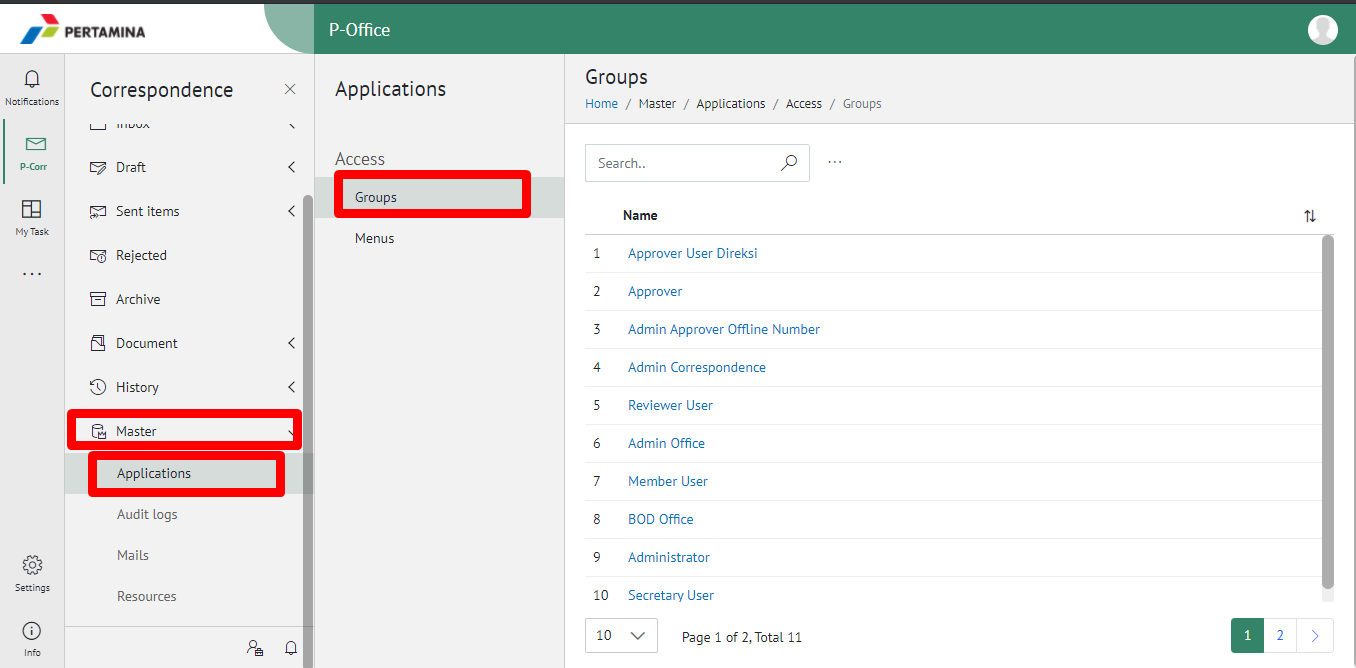
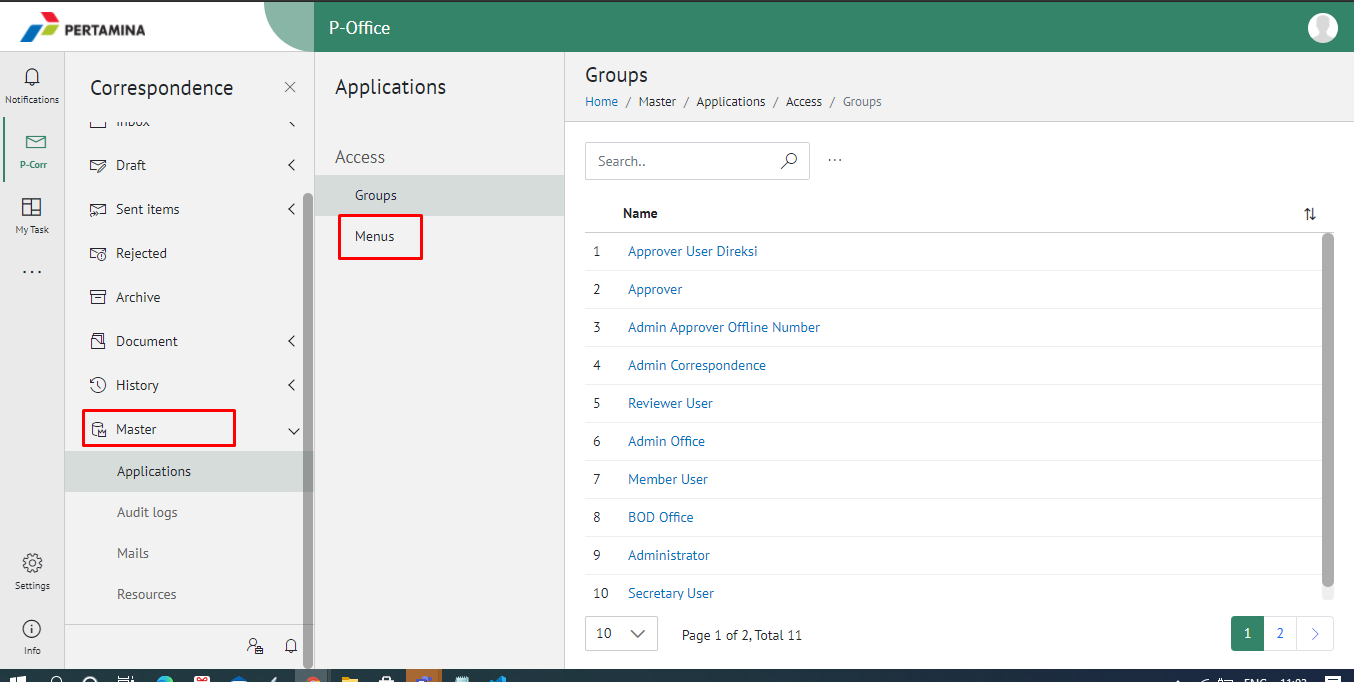
updateaaCommite

diff --git a/DM_Mail_Categories.md b/DM_Mail_Categories.md
@@ -17,25 +17,25 @@ Langkah - langkah untuk pengelolaan kategori surat via Web adalah sebagai beriku
 
 1.    Pilih menu **Master** dan pilih submenu **Mail Categories**
 
-![gambar](DataMaster/SC_DataMaster/DM57.png)
+![gambar](DataMaster/SC_DataMaster/02DM57.png)
 
 2.    Pilih tombol **Search** dan masukkan pencarian berdasarkan kata kunci, kemudian klik **Enter**
 
-![gambar](DataMaster/SC_DataMaster/DM58.png)
+![gambar](DataMaster/SC_DataMaster/02DM58.png)
 
 #### **Menambah Kategori Surat**
 
 1.    Pilih menu **Master** dan pilih submenu **Mail Categories**
 
-![gambar](DataMaster/SC_DataMaster/DM59.png)
+![gambar](DataMaster/SC_DataMaster/02DM59.png)
 
 2.    Pilih tombol **+ Add Mail Categories** untuk menambah kategori surat
 
-![gambar](DataMaster/SC_DataMaster/DM60.png)
+![gambar](DataMaster/SC_DataMaster/02DM60.png)
 
 3.    Isikan informasi kategori surat meliputi nama kemudian klik tombol **Submit.**
 
-![gambar](DataMaster/SC_DataMaster/DM61.png)
+![gambar](DataMaster/SC_DataMaster/02DM61.png)
 
 4.    Sistem menyimpan perubahan dan data akan muncul di halaman daftar kategori surat
 
@@ -45,19 +45,19 @@ Langkah - langkah untuk pengelolaan kategori surat via Web adalah sebagai beriku
 
 1.    Pilih menu **Master** dan pilih submenu **Mail Categories**
 
-![gambar](DataMaster/SC_DataMaster/DM62.png)
+![gambar](DataMaster/SC_DataMaster/02DM62.png)
 
 2.    Klik checklist pada kategori surat yang akan diubah kemudian klik tombol **Edit Mail Categories**
 
-![gambar](DataMaster/SC_DataMaster/DM63.png)
+![gambar](DataMaster/SC_DataMaster/02DM63.png)
 
 3.    Lakukan perubahan pada kategori surat, pilih **Cancel** untuk membatalkan proses
 
-![gambar](DataMaster/SC_DataMaster/DM64.png)
+![gambar](DataMaster/SC_DataMaster/02DM64.png)
 
 4.    Lakukan perubahan pada kategori surat kemudian klik tombol **Submit**
 
-![gambar](DataMaster/SC_DataMaster/DM65.png)
+![gambar](DataMaster/SC_DataMaster/02DM65.png)
 
 5.    Sistem menyimpan perubahan dan data akan muncul di halaman daftar kategori surat
 
@@ -66,11 +66,11 @@ Langkah - langkah untuk pengelolaan kategori surat via Web adalah sebagai beriku
 
 1.    Pilih menu **Master** dan pilih submenu **Mail Categories**
 
-![gambar](DataMaster/SC_DataMaster/DM66.png)
+![gambar](DataMaster/SC_DataMaster/02DM66.png)
 
 2.    Klik checklist pada kategori surat yang akan dihapus kemudian klik tombol **Delete Mail Categories**
 
-![gambar](DataMaster/SC_DataMaster/DM67.png)
+![gambar](DataMaster/SC_DataMaster/02DM67.png)
 
 3.    Klik tombol **Cancel** untuk membatalkan proses
 

diff --git a/DM_Justifications.md b/DM_Justifications.md
@@ -17,25 +17,25 @@ Langkah - langkah untuk melakukan pengelolaan justifikasi via Web adalah sebagai
 
 1.    Pilih menu **Master** dan pilih submenu **Justifications**
 
-![gambar](DataMaster/SC_DataMaster/DM123.png)
+![gambar](DataMaster/SC_DataMaster/02DM123.png)
 
 2.    Pilih tombol **Search** dan masukkan pencarian berdasarkan kata kunci, kemudian klik **Enter**
 
-![gambar](DataMaster/SC_DataMaster/DM124.png)
+![gambar](DataMaster/SC_DataMaster/02DM124.png)
 
 #### **Menambah Justifikasi**
 
 1.    Pilih menu **Master** dan pilih submenu **Justifications**
 
-![gambar](DataMaster/SC_DataMaster/DM125.png)
+![gambar](DataMaster/SC_DataMaster/02DM125.png)
 
 2.    Pilih tombol **+ Add Justifications** untuk justifikasi
 
-![gambar](DataMaster/SC_DataMaster/DM126.png)
+![gambar](DataMaster/SC_DataMaster/02DM126.png)
 
 3.    Isikan informasi justifikasi meliputi nama kemudian klik tombol **Submit.**
 
-![gambar](DataMaster/SC_DataMaster/DM127.png)
+![gambar](DataMaster/SC_DataMaster/02DM127.png)
 
 4.    Sistem menyimpan perubahan dan data akan muncul di halaman daftar tempat
 
@@ -44,19 +44,19 @@ Langkah - langkah untuk melakukan pengelolaan justifikasi via Web adalah sebagai
 
 1.    Pilih menu **Master** dan pilih submenu **Justifications**
 
-![gambar](DataMaster/SC_DataMaster/DM128.png)
+![gambar](DataMaster/SC_DataMaster/02DM128.png)
 
 2.    Klik checklist pada justifikasi yang akan diubah kemudian klik icon **Edit Justifications**
 
-![gambar](DataMaster/SC_DataMaster/DM129.png)
+![gambar](DataMaster/SC_DataMaster/02DM129.png)
 
 3.    Lakukan perubahan pada justifikasi, pilih **Cancel** untuk membatalkan proses
 
-![gambar](DataMaster/SC_DataMaster/DM130.png)
+![gambar](DataMaster/SC_DataMaster/02DM130.png)
 
 4.    Lakukan perubahan pada justifikasi kemudian klik tombol **Submit.**
 
-![gambar](DataMaster/SC_DataMaster/DM131.png)
+![gambar](DataMaster/SC_DataMaster/02DM131.png)
 
 5.    Sistem menyimpan perubahan dan data akan muncul di halaman daftar tempat
 
@@ -65,11 +65,11 @@ Langkah - langkah untuk melakukan pengelolaan justifikasi via Web adalah sebagai
 
 1.    Pilih menu **Master** dan pilih submenu **Justifications**
 
-![gambar](DataMaster/SC_DataMaster/DM132.png)
+![gambar](DataMaster/SC_DataMaster/02DM132.png)
 
 2.    Klik checklist pada justifikasi yang akan dihapus kemudian klik tombol **Delete Justifications**
 
-![gambar](DataMaster/SC_DataMaster/DM133.png)
+![gambar](DataMaster/SC_DataMaster/02DM133.png)
 
 3.    Klik tombol **Cancel** untuk membatalkan proses
 

diff --git a/DM_Mail_Codes.md b/DM_Mail_Codes.md
@@ -17,25 +17,25 @@ Langkah - langkah untuk pengelolaan kode simpan via Web adalah sebagai berikut
 
 1.    Pilih menu **Master** dan pilih submenu **Mail Code**
 
-![gambar](DataMaster/SC_DataMaster/DM18.png)
+![gambar](DataMaster/SC_DataMaster/02DM18.png)
 
 2.    Pilih tombol **Search** dan masukkan pencarian berdasarkan kata kunci, kemudian klik **Enter**
 
-![gambar](DataMaster/SC_DataMaster/DM19.png)
+![gambar](DataMaster/SC_DataMaster/02DM19.png)
 
 #### **Menambah Kode Simpan**
 
 1.    Pilih menu **Master** dan pilih submenu **Mail Code**
 
-![gambar](DataMaster/SC_DataMaster/DM20.png)
+![gambar](DataMaster/SC_DataMaster/02DM20.png)
 
 2.    Pilih tombol **+ Add Mail Code** untuk menambah kode simpan
 
-![gambar](DataMaster/SC_DataMaster/DM21.png)
+![gambar](DataMaster/SC_DataMaster/02DM21.png)
 
 3.    Isikan informasi kode simpan meliputi nama dan kode kemudian klik tombol **Submit.**
 
-![gambar](DataMaster/SC_DataMaster/DM22.png)
+![gambar](DataMaster/SC_DataMaster/02DM22.png)
 
 4.    Sistem menyimpan perubahan dan data akan muncul di halaman daftar kode simpan
 
@@ -44,19 +44,19 @@ Langkah - langkah untuk pengelolaan kode simpan via Web adalah sebagai berikut
 
 1.    Pilih menu **Master** dan pilih submenu **Mail Code**
 
-![gambar](DataMaster/SC_DataMaster/DM23.png)
+![gambar](DataMaster/SC_DataMaster/02DM23.png)
 
 2.	  Klik checklist pada kode simpan yang akan diubah kemudian klik **Edit Mail Code**
 
-![gambar](DataMaster/SC_DataMaster/DM24.png)
+![gambar](DataMaster/SC_DataMaster/02DM24.png)
 
 3.    Lakukan perubahan pada kode simpan, pilih **Cancel** untuk membatalkan proses
 
-![gambar](DataMaster/SC_DataMaster/DM25.png)
+![gambar](DataMaster/SC_DataMaster/02DM25.png)
 
 4.    Lakukan perubahan pada kode simpan kemudian klik tombol **Submit** untuk menyimpan perubahan
 
-![gambar](DataMaster/SC_DataMaster/DM26.png)
+![gambar](DataMaster/SC_DataMaster/02DM26.png)
 
 5.	  Sistem menyimpan perubahan dan data akan muncul di halaman daftar kode simpan
 
@@ -65,11 +65,11 @@ Langkah - langkah untuk pengelolaan kode simpan via Web adalah sebagai berikut
 
 1.    Pilih menu **Master** dan pilih submenu **Mail Code**
 
-![gambar](DataMaster/SC_DataMaster/DM27.png)
+![gambar](DataMaster/SC_DataMaster/02DM27.png)
 
 2.    Klik checklist pada kode simpan yang akan dihapus kemudian klik tombol **Delete Mail Code**
 
-![gambar](DataMaster/SC_DataMaster/DM28.png)
+![gambar](DataMaster/SC_DataMaster/02DM28.png)
 
 3.	  Klik tombol **Tidak** untuk membatalkan proses
 

diff --git a/DM_Acses_Menu.md b/DM_Acses_Menu.md
@@ -1,0 +1,95 @@
+**Role yang sesuai**
+
+
+
+- Admin P-Office
+
+
+
+Admin P-Office dapat mengelola akses menu yang digunakan dalam dalam pemberian hak akses pada setiap role-nya. Pengelolaan akses menu yang dilakukan admin P-Office antara lain yaitu
+
+
+
+- Mencari akses menu
+
+- Menambah akses menu
+
+- Mengubah akses menu
+
+- Menghapus akses menu
+
+
+
+## **P-Office Versi Web**
+
+
+
+Langkah - langkah untuk melakukan pengelolaan akses menu via Web adalah sebagai berikut :
+
+
+
+#### **Mencari Menu Akses**
+
+
+
+1.    Pilih menu **Master** dan pilih submenu **Access Menus**
+
+
+
+![gambar](DataMaster/SC_DataMaster/02DM01.png)
+
+
+
+2.    Pilih tombol **Search** dan masukkan pencarian berdasarkan kata kunci, kemudian klik **Enter**
+
+
+
+![gambar](DataMaster/SC_DataMaster/02DM02.png)
+
+
+
+#### **Menambah Menu Akses**
+
+
+
+1.    Pilih menu **Master** dan pilih submenu **Access Menus**
+
+
+
+![gambar](DataMaster/SC_DataMaster/02DM03.png)
+
+
+
+2.    Pilih tombol **+ Add Menu** untuk menambah menu akses
+
+
+
+![gambar](DataMaster/SC_DataMaster/02DM04.png)
+
+
+
+3.    Isikan informasi menu akses meliputi nama dan link akses menu kemudian klik tombol **Submit.**
+
+
+
+![gambar](DataMaster/SC_DataMaster/02DM05.png)
+
+
+
+4.    Sistem menyimpan perubahan dan data akan muncul di halaman daftar menu akses
+
+
+
+#### **Mengubah Menu Akses**
+
+
+
+1.    Pilih menu **Master** dan pilih submenu **Access Menus**
+
+
+
+![gambar](DataMaster/SC_DataMaster/02DM06.png)
+
+
+
+2.    Klik checklist pada akses menu yang akan diubah kemudian klik tombol **Edit Menu**

diff --git a/DM_Mail_Classifications.md b/DM_Mail_Classifications.md
@@ -17,21 +17,21 @@ Langkah - langkah untuk pengelolaan klasifikasi surat via Web adalah sebagai ber
 
 1.    Pilih menu **Master** dan pilih submenu **Mail Classification**
 
-![gambar](DataMaster/SC_DataMaster/DM31.png)
+![gambar](DataMaster/SC_DataMaster/02DM31.png)
 
 2.    Pilih tombol **Search** dan masukkan pencarian berdasarkan kata kunci, kemudian klik **Enter**
 
-![gambar](DataMaster/SC_DataMaster/DM32.png)
+![gambar](DataMaster/SC_DataMaster/02DM32.png)
 
 #### **Menambah Klasifikasi Surat**
 
 1.    Pilih menu **Master** dan pilih submenu **Mail Classification**
 
-![gambar](DataMaster/SC_DataMaster/DM33.png)
+![gambar](DataMaster/SC_DataMaster/02DM33.png)
 
 2.    Pilih tombol **+ Add Mail Classification** untuk menambah klasifikasi surat
 
-![gambar](DataMaster/SC_DataMaster/DM34.png)
+![gambar](DataMaster/SC_DataMaster/02DM34.png)
 
 3.    Isikan informasi klasifikasi surat meliputi nama kemudian klik tombol **Submit.**
 
@@ -44,11 +44,11 @@ Langkah - langkah untuk pengelolaan klasifikasi surat via Web adalah sebagai ber
 
 1.    Pilih menu **Master** dan pilih submenu **Mail Classification**
 
-![gambar](DataMaster/SC_DataMaster/DM36.png)
+![gambar](DataMaster/SC_DataMaster/02DM36.png)
 
 2.    Klik checklist pada klasifikasi surat yang akan diubah kemudian klik tombol **Edit Mail Classification**
 
-![gambar](DataMaster/SC_DataMaster/DM37.png)
+![gambar](DataMaster/SC_DataMaster/02DM37.png)
 
 3.    Lakukan perubahan pada klasifikasi surat, pilih **Cancel** untuk membatalkan proses
 

diff --git a/DM_Group_Access.md b/DM_Group_Access.md
@@ -15,19 +15,19 @@ Langkah - langkah untuk melakukan pengelolaan grup akses via Web adalah sebagai 
 
 1.    Pilih menu **Master** dan pilih submenu **Group Access**
 
-![gambar](DataMaster/SC_DataMaster/DM14.png)
+![gambar](DataMaster/SC_DataMaster/02DM14.png)
 
 2.    Pilih tombol **Search** dan masukkan pencarian berdasarkan kata kunci, kemudian klik **Enter**
 
-![gambar](DataMaster/SC_DataMaster/DM15.png)
+![gambar](DataMaster/SC_DataMaster/02DM15.png)
 
 
 #### **Menambah Grup Akses untuk Setiap Role**
 
 1.    Pilih menu **Master** dan pilih submenu **Access Menus**
 
-![gambar](DataMaster/SC_DataMaster/DM16.png)
+![gambar](DataMaster/SC_DataMaster/02DM16.png)
 
 2.    Pilih role yang akan ditambahkan grup akses kemudian checklist grup menu yang akan diberikan akses dan klik **Submit**
 
-![gambar](DataMaster/SC_DataMaster/DM17.png)
+![gambar](DataMaster/SC_DataMaster/02DM17.png)
